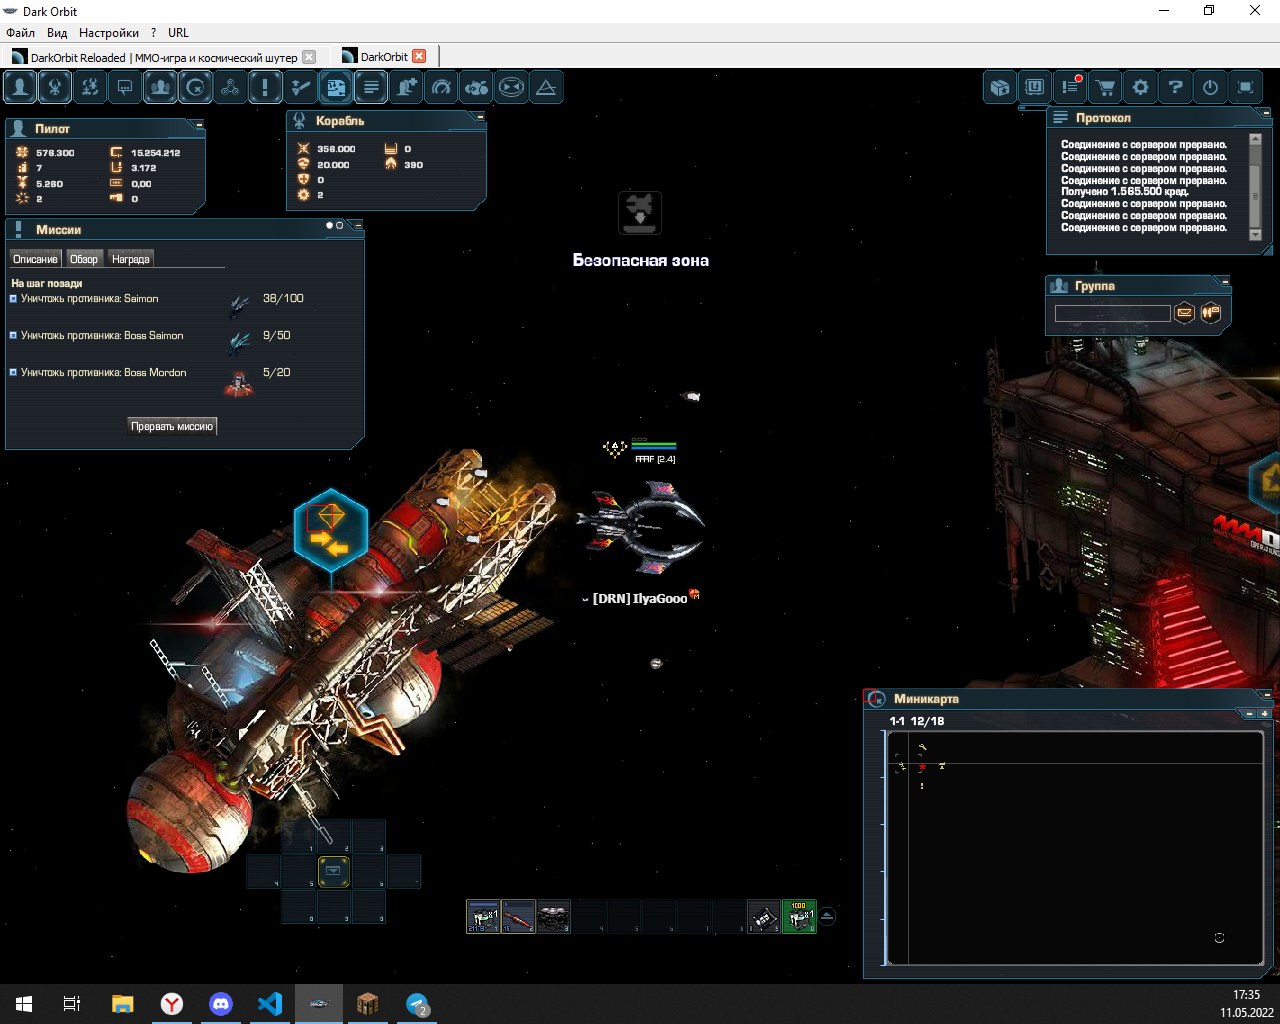
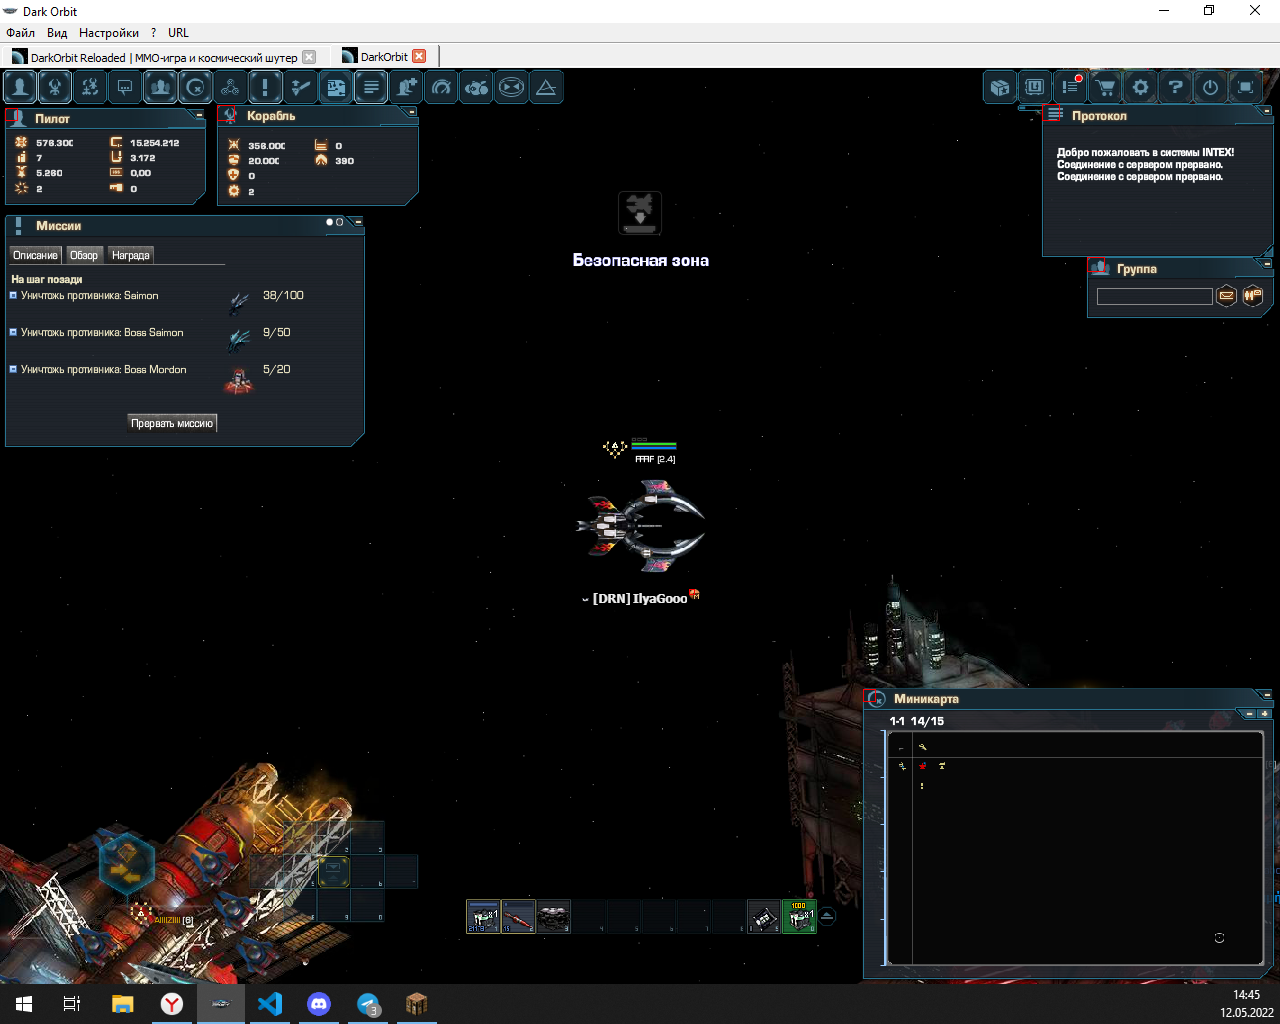
Interface init

diff --git a/algorithm/controllers/initializator.go b/algorithm/controllers/initializator.go
@@ -27,19 +27,60 @@ func InitInterface(foundMap map[string][]scaning.FoundObject) bool {
 		robotgo.Toggle("left", "up")
 
 		if len(foundMap["user_icon"]) > 0 {
-			fmt.Println("Перетаскиваю миникарту")
+			fmt.Println("Перетаскиваю табло пилота")
 			found := foundMap["user_icon"][0]
 			startX := int(float64(found.ClickX)/float64(1.66)) + 50
 			robotgo.Move(startX, found.ClickY)
 			robotgo.MilliSleep(100)
-			x := 1200 / 1.66
 			robotgo.Toggle("left")
 			robotgo.MilliSleep(1000)
-			robotgo.Drag(int(x), 800)
+			robotgo.Drag(0, 120)
 			robotgo.MilliSleep(1000)
 			robotgo.Toggle("left", "up")
-			return true
+
+			if len(foundMap["ship_icon"]) > 0 {
+				fmt.Println("Перетаскиваю табло корабля")
+				found := foundMap["ship_icon"][0]
+				startX := int(float64(found.ClickX)/float64(1.66)) + 50
+				robotgo.Move(startX, found.ClickY)
+				robotgo.MilliSleep(100)
+				robotgo.Toggle("left")
+				robotgo.MilliSleep(1000)
+				robotgo.Drag(190, 120)
+				robotgo.MilliSleep(1000)
+				robotgo.Toggle("left", "up")
+
+				if len(foundMap["profiler_icon"]) > 0 {
+					fmt.Println("Перетаскиваю табло протокола")
+					found := foundMap["profiler_icon"][0]
+					startX := int(float64(found.ClickX)/float64(1.66)) + 50
+					robotgo.Move(startX, found.ClickY)
+					robotgo.MilliSleep(100)
+					robotgo.Toggle("left")
+					robotgo.MilliSleep(1000)
+					robotgo.Drag(int(x), 120)
+					robotgo.MilliSleep(1000)
+					robotgo.Toggle("left", "up")
+
+					if len(foundMap["group_icon"]) > 0 {
+						fmt.Println("Перетаскиваю табло группы")
+						found := foundMap["group_icon"][0]
+						startX := int(float64(found.ClickX)/float64(1.66)) + 50
+						robotgo.Move(startX, found.ClickY)
+						robotgo.MilliSleep(100)
+						robotgo.Toggle("left")
+						robotgo.MilliSleep(1000)
+						robotgo.Drag(int(x), 270)
+						robotgo.MilliSleep(1000)
+						robotgo.Toggle("left", "up")
+
+						fmt.Println("Инициализация окончена")
+						return true
+					}
+				}
+			}
 		}
 	}
+	fmt.Println("Инициализация прервана")
 	return false
 }

diff --git a/algorithm/controllers/basicController.go b/algorithm/controllers/basicController.go
@@ -27,11 +27,11 @@ func (c *BasicController) InitInterface(foundMap map[string][]scaning.FoundObjec
 }
 
 func (c *BasicController) Run(foundMap map[string][]scaning.FoundObject) bool {
-	if 1 == 1 {
-		x, y := robotgo.GetMousePos()
-		fmt.Println("pos: ", x, y)
-		return true
-	}
+	// if 1 == 1 {
+	// 	x, y := robotgo.GetMousePos()
+	// 	fmt.Println("pos: ", x, y)
+	// 	return true
+	// }
 
 	if len(foundMap["map"]) > 0 {
 		return false
@@ -68,7 +68,7 @@ func (c *BasicController) Run(foundMap map[string][]scaning.FoundObject) bool {
 
 func MooveAndClick(found scaning.FoundObject) {
 	//robotgo.MouseSleep = 100
-	//todo 1.66 коэффицент при движении мыши на втором экране
+	//todo 1.66 коэффицент положения мыши на втором экране
 	robotgo.Move(int(float64(found.ClickX)/float64(1.66)), found.ClickY)
 	robotgo.Click()
 	robotgo.MilliSleep(100)

diff --git a/scaning/teamplates.go b/scaning/teamplates.go
@@ -27,6 +27,9 @@ func GetTeamplates() []*teamplate {
 		{"sell", loadTeamplate("sell"), red},
 		{"minimap_icon", loadTeamplate("windows/minimap_icon"), red},
 		{"user_icon", loadTeamplate("windows/user_icon"), red},
+		{"ship_icon", loadTeamplate("windows/ship_icon"), red},
+		{"profiler_icon", loadTeamplate("windows/profiler_icon"), red},
+		{"group_icon", loadTeamplate("windows/group_icon"), red},
 	}
 	return x
 }
